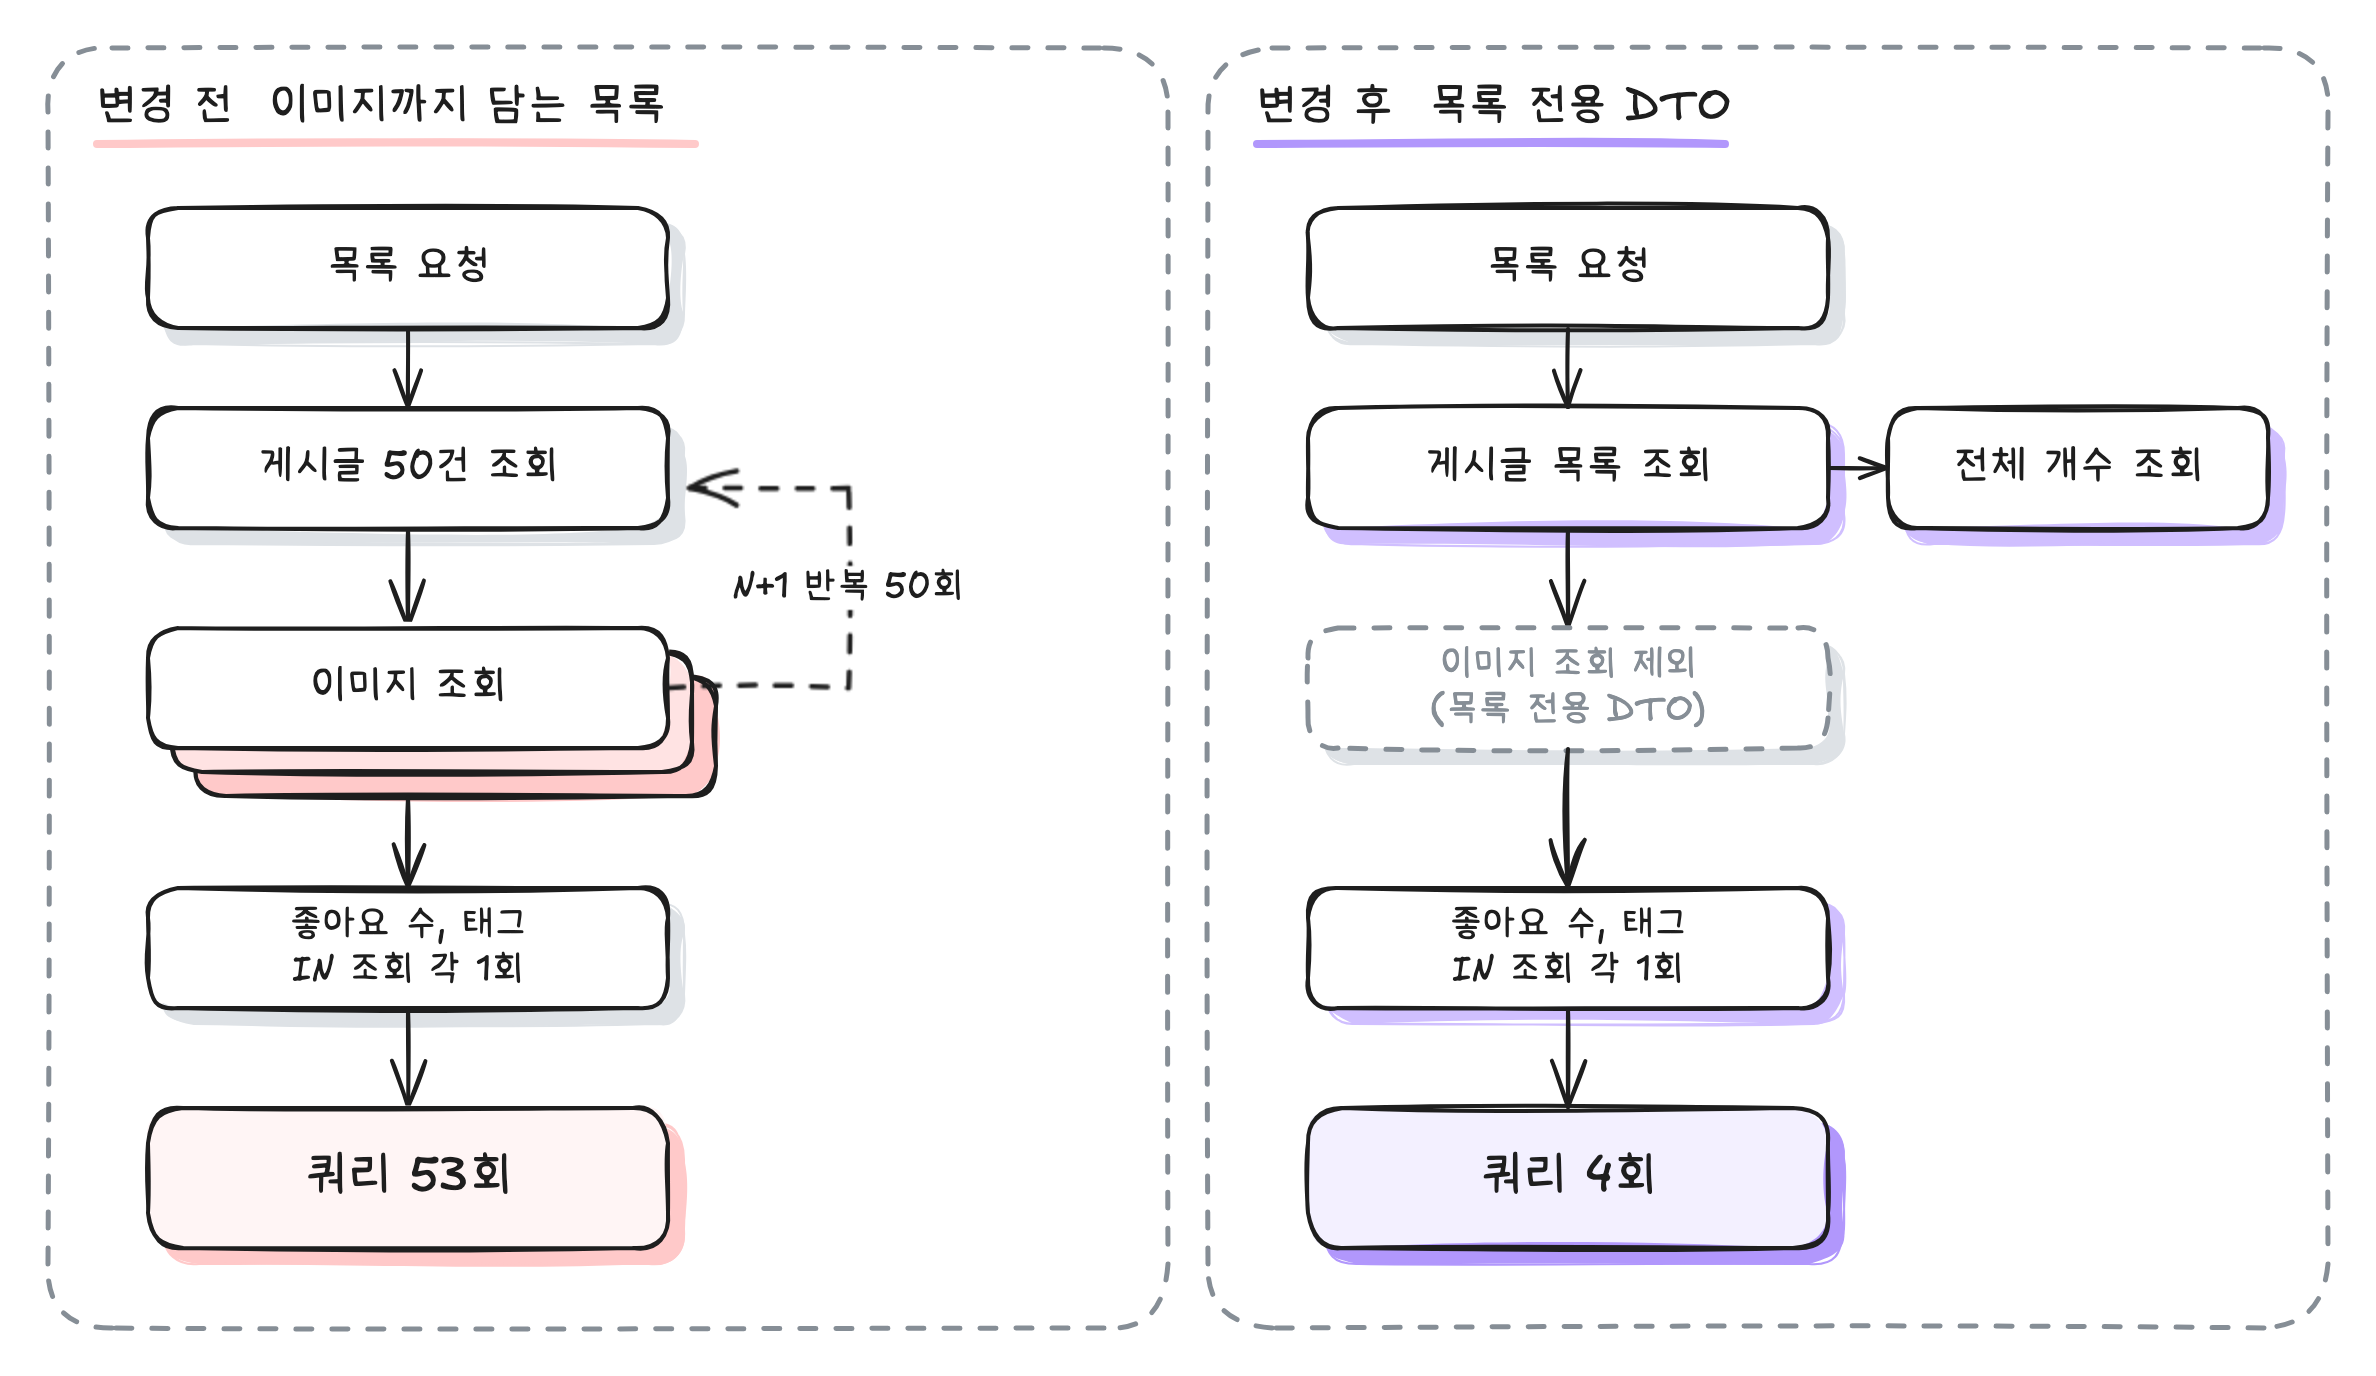
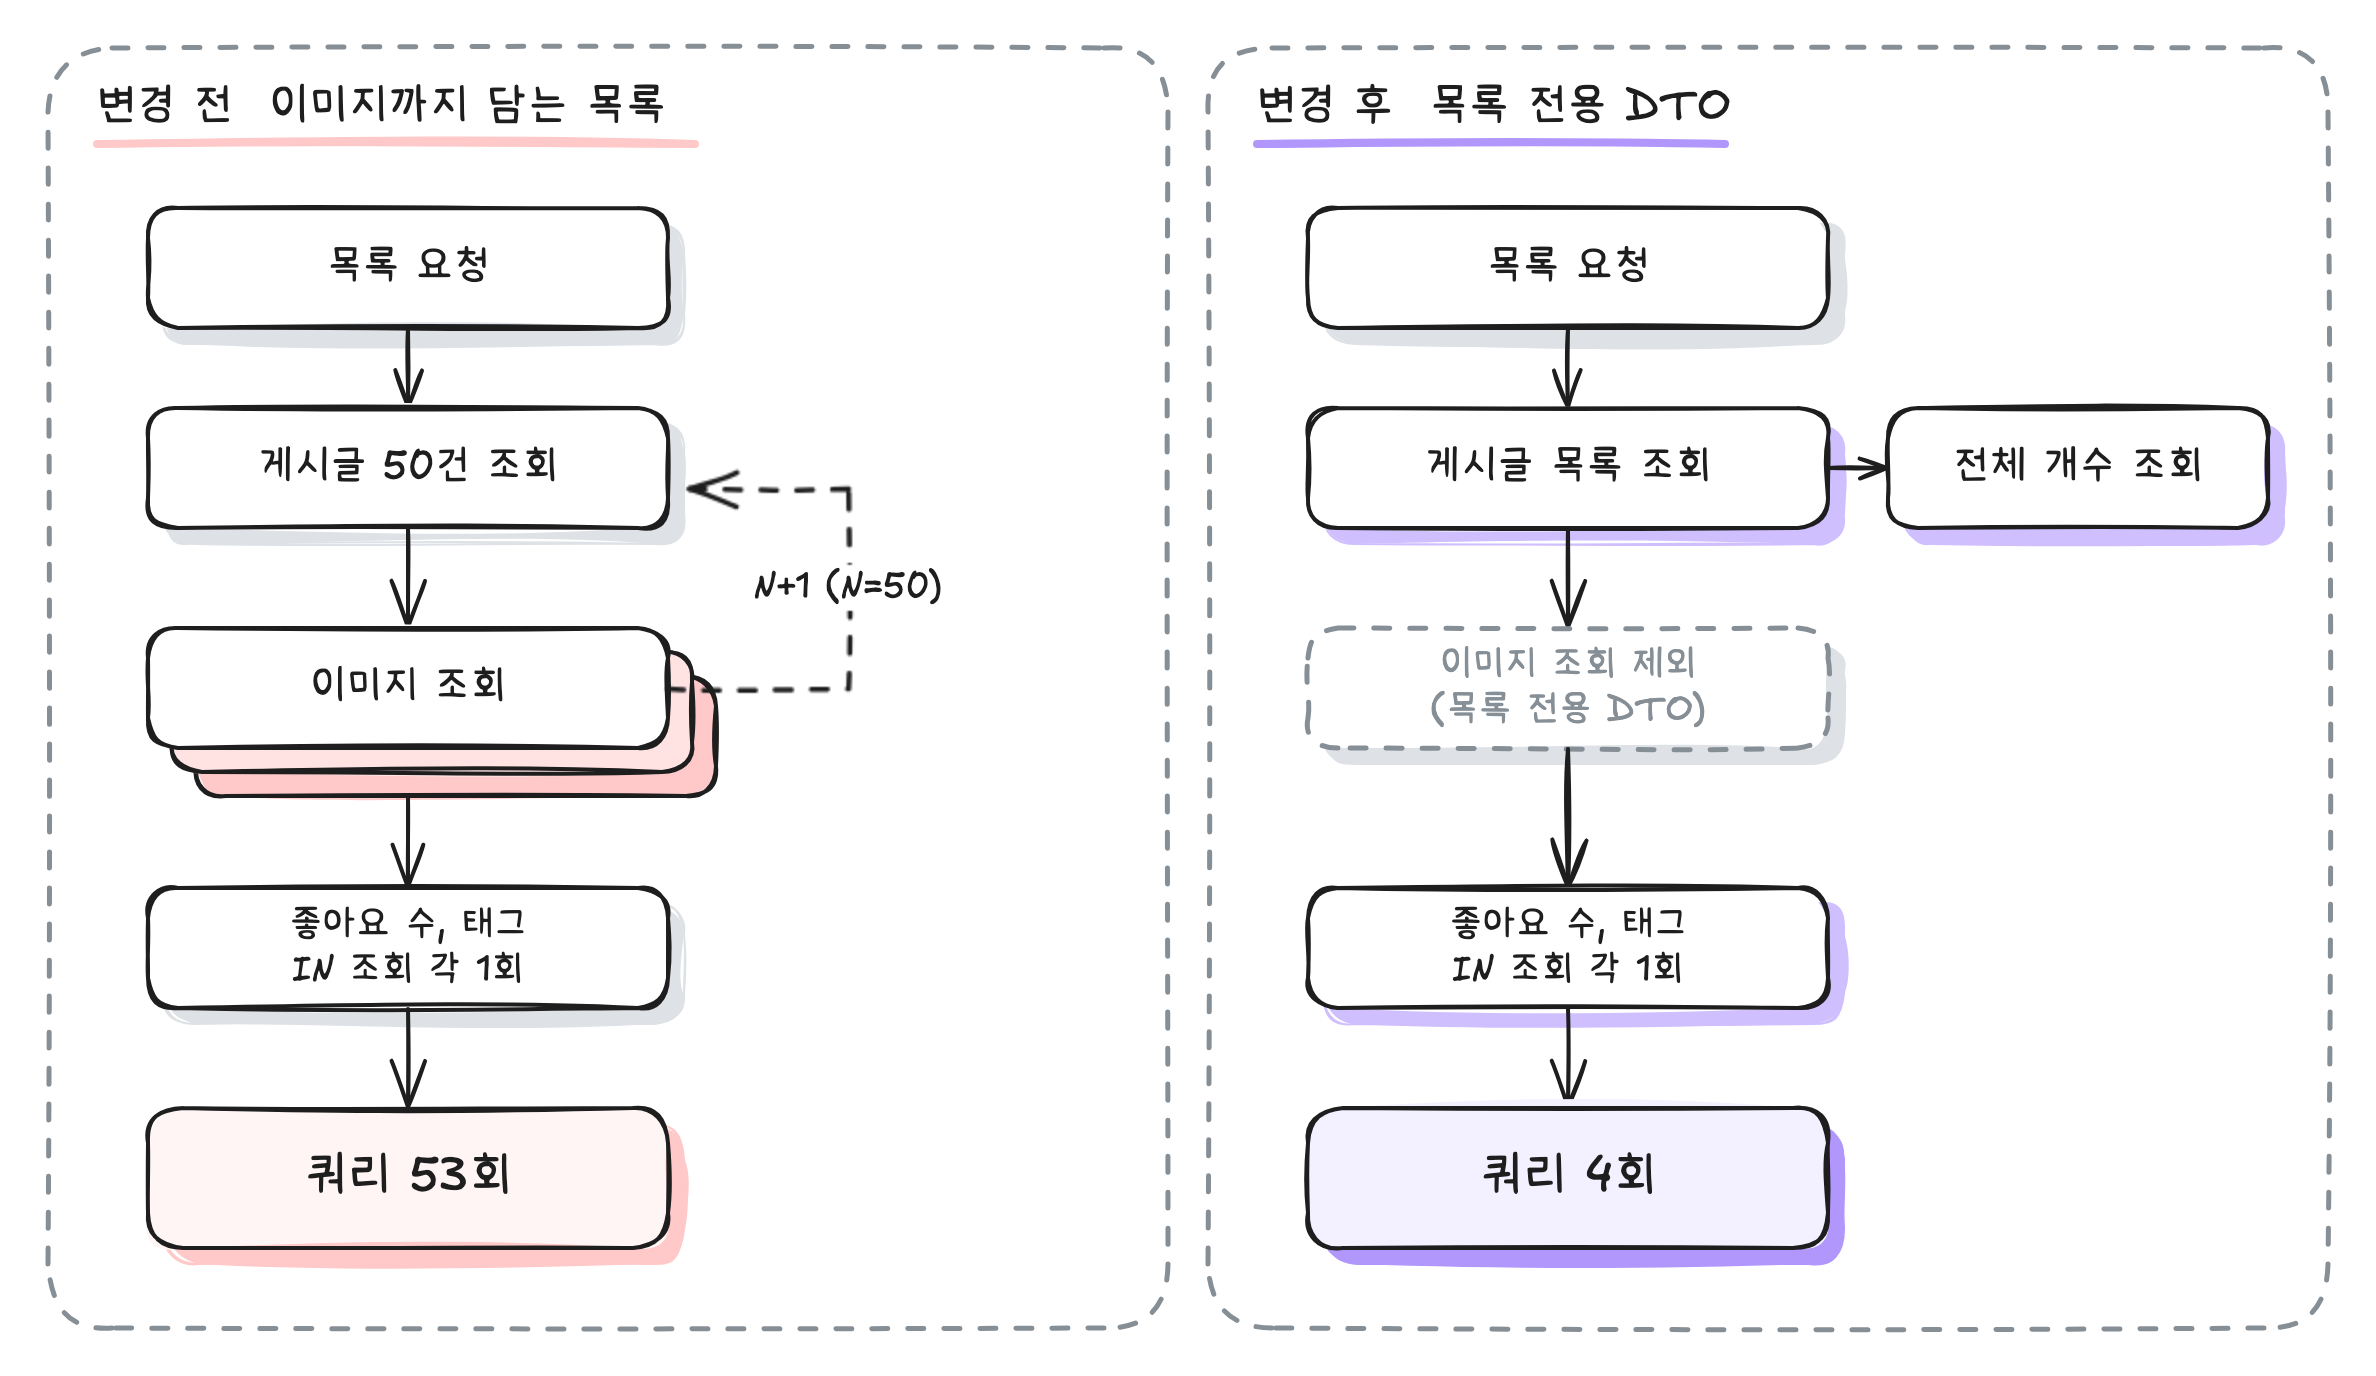
portfolio: 사례 05 그림의 N+1 라벨 정리

diff --git a/index.html b/index.html
@@ -205,8 +205,8 @@
   <h3 id="case-title-5">목록 조회의 N+1 쿼리 해결 (53회 → 4회)</h3>
   <p class="case-deck">목록에는 필요 없는 이미지 연관관계를 게시글마다 따로 불러오던 N+1 문제를 목록 전용 응답 DTO로 분리해 해결하고, 게시글 50건 기준 쿼리 수를 53회에서 4회로 줄였습니다.</p>
   <figure>
-    <div class="figure-heading"><p class="figure-title">목록 조회 쿼리 흐름 변경 전후</p><a href="assets/diagrams/gallery-list-queries.png?v=b0a14516" data-diagram aria-label="목록 조회 쿼리 흐름 변경 전후 크게 보기">크게 보기 ↗</a></div>
-    <a class="diagram-link" href="assets/diagrams/gallery-list-queries.png?v=b0a14516" data-diagram aria-label="목록 조회 쿼리 흐름 변경 전후 이미지 확대"><img class="diagram-image" src="assets/diagrams/gallery-list-queries.png?v=b0a14516" width="2376" height="1376" alt="변경 전에는 게시글 50건을 조회한 뒤 게시글마다 이미지를 따로 조회하는 N+1이 50회 생기고 좋아요 수와 태그를 IN 조회로 한 번씩 조회해 쿼리가 53회 나간다. 변경 후에는 게시글 목록과 전체 개수를 조회하고 목록 전용 DTO라 이미지는 조회하지 않으며 좋아요 수와 태그를 IN 조회로 한 번씩 조회해 쿼리가 4회로 줄어든다" loading="lazy" decoding="async"></a>
+    <div class="figure-heading"><p class="figure-title">목록 조회 쿼리 흐름 변경 전후</p><a href="assets/diagrams/gallery-list-queries.png?v=727bbdab" data-diagram aria-label="목록 조회 쿼리 흐름 변경 전후 크게 보기">크게 보기 ↗</a></div>
+    <a class="diagram-link" href="assets/diagrams/gallery-list-queries.png?v=727bbdab" data-diagram aria-label="목록 조회 쿼리 흐름 변경 전후 이미지 확대"><img class="diagram-image" src="assets/diagrams/gallery-list-queries.png?v=727bbdab" width="2376" height="1376" alt="변경 전에는 게시글 50건을 조회한 뒤 게시글마다 이미지를 따로 조회하는 N+1이 50회 생기고 좋아요 수와 태그를 IN 조회로 한 번씩 조회해 쿼리가 53회 나간다. 변경 후에는 게시글 목록과 전체 개수를 조회하고 목록 전용 DTO라 이미지는 조회하지 않으며 좋아요 수와 태그를 IN 조회로 한 번씩 조회해 쿼리가 4회로 줄어든다" loading="lazy" decoding="async"></a>
   </figure>
   <div class="psr">
     <div>

diff --git a/scripts/excalidraw/gallery-list-queries.py b/scripts/excalidraw/gallery-list-queries.py
@@ -25,7 +25,7 @@ arrow('aa2',200,260,[[0,0],[0,50]])
 # stacked cards for repeated image queries
 plain('st3',94,334,260,60,'#ffc9c9'); plain('st2',82,322,260,60,'#ffe3e3')
 E.append({"type":"rectangle","id":"a3","x":70,"y":310,"width":260,"height":60,"backgroundColor":"#ffffff","fillStyle":"solid","strokeColor":INK,"strokeWidth":2,"roundness":{"type":3},"label":{"text":"이미지 조회","fontSize":20}})
-arrow('loop',330,340,[[0,0],[90,0],[90,-100],[10,-100]],label='N+1 반복 50회',dashed=True)
+arrow('loop',330,340,[[0,0],[90,0],[90,-100],[10,-100]],label='N+1 (N=50)',dashed=True)
 arrow('aa3',200,394,[[0,0],[0,46]])
 box('a4',70,440,260,60,'좋아요 수, 태그\nIN 조회 각 1회',GRAY,fs=18)
 arrow('aa4',200,500,[[0,0],[0,50]])
